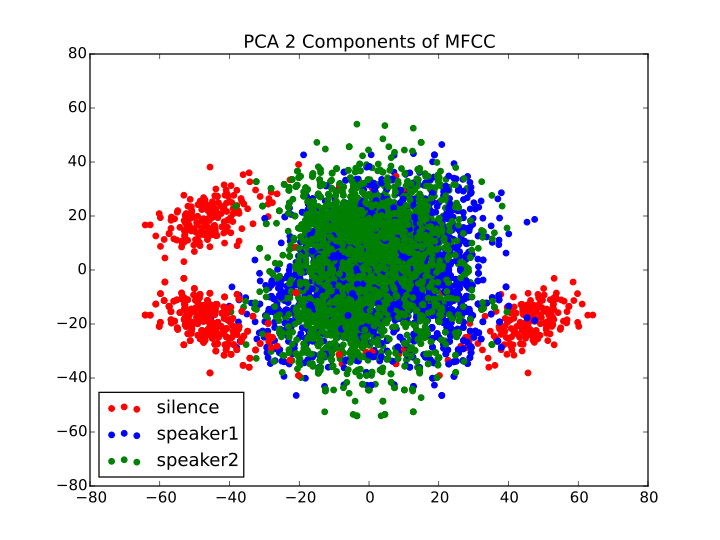
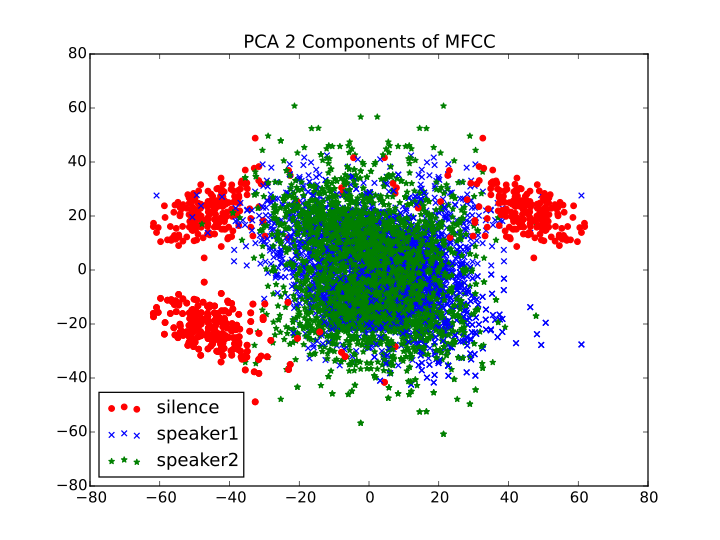
added markers

diff --git a/src/classify_audio.py b/src/classify_audio.py
@@ -77,9 +77,10 @@ def gen_stats(data, training, test, n_speakers, is_voice, which_speaker):
     pca.fit(hstack(data).T)
     pca_data = map(compose(transpose, pca.transform, transpose), data)
 
-    for color, sp in zip(["red", "blue", "green"], pca_data):
-        scatter(sp[0], sp[1], color=color)
-        legend(["silence", "speaker1", "speaker2"], loc='lower left',)
+    for (color, marker), sp in zip([("red", "o"), ("blue", "x"),
+                                    ("green", "*")], pca_data):
+        scatter(sp[0], sp[1], color=color, marker=marker)
+        legend(["silence", "speaker1", "speaker2"], loc='upper left',)
         title("PCA 2 Components of MFCC")
     savefig("pca_2_comp_mfcc.svg")
     
